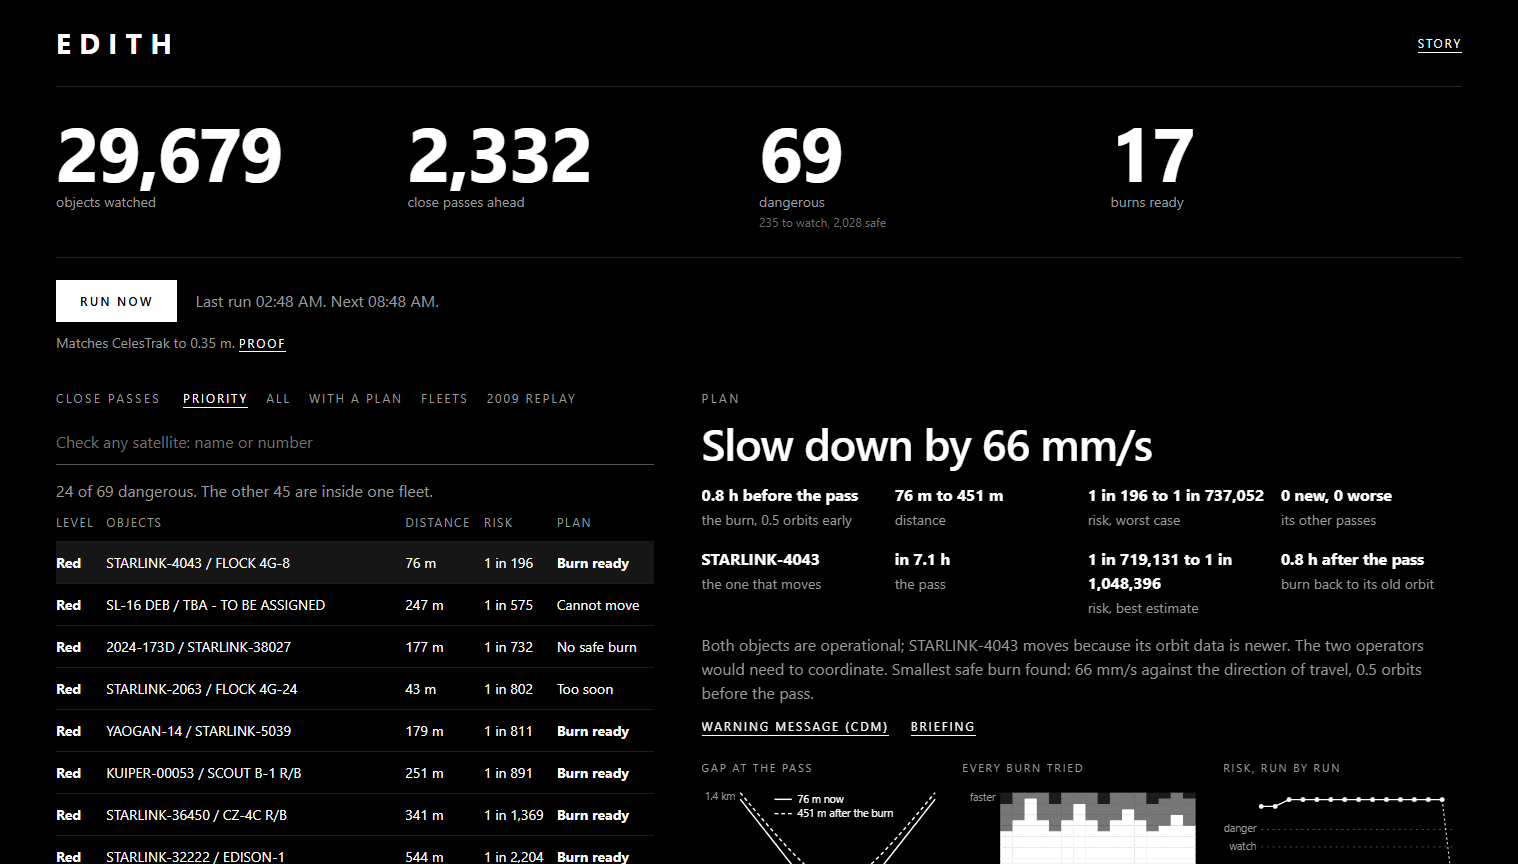
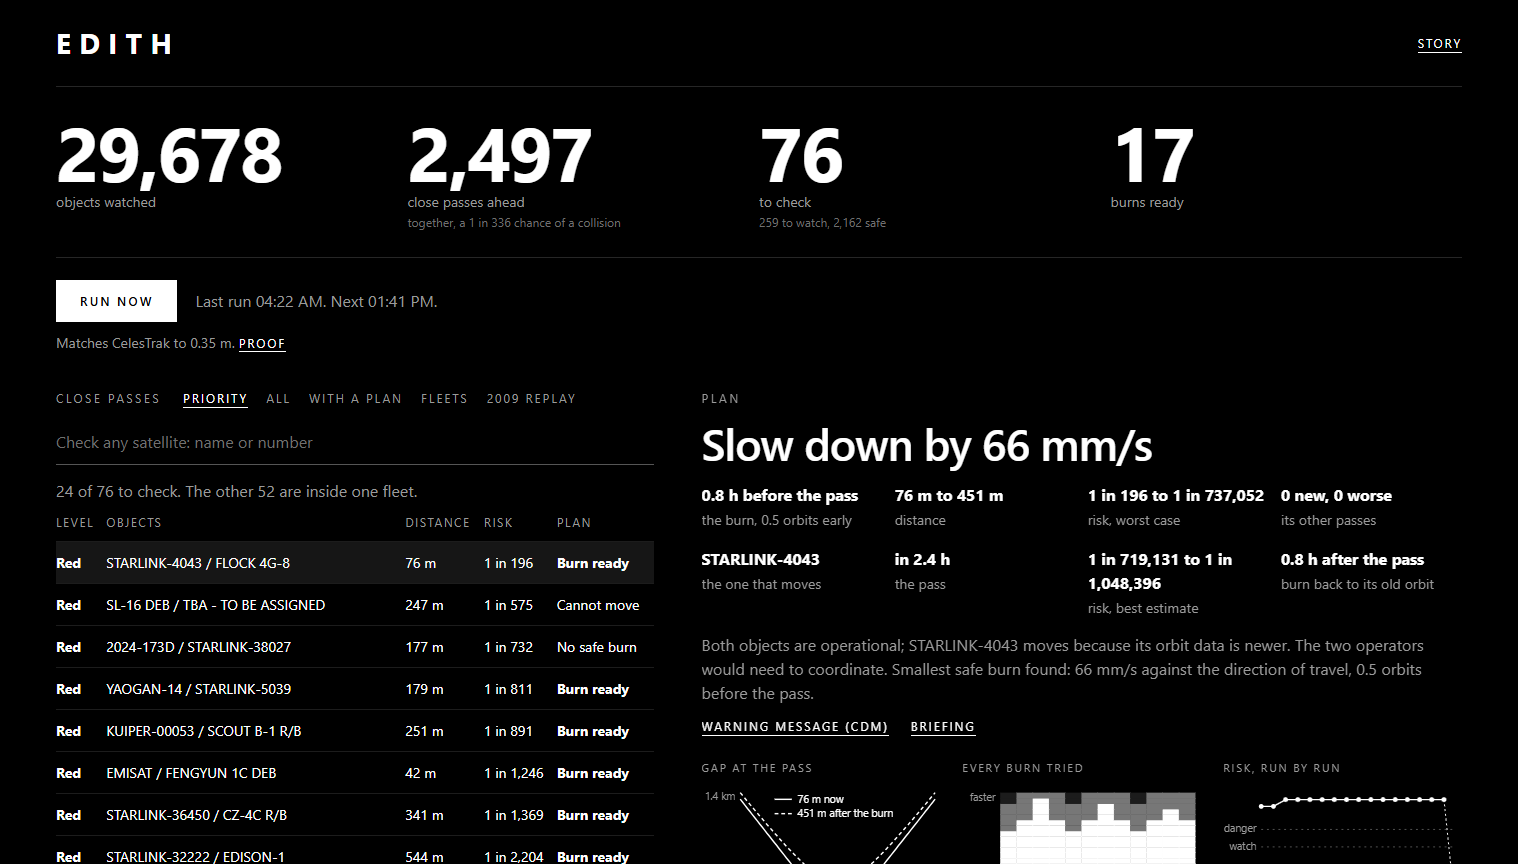
Dashboard: red passes are "to check", and the page says how likely any collision is
Collisions are rare while close passes worth a check are common, and the
word "dangerous" overstated a red pass. The headline now also gives the
chance that any pass of the run is a collision, from the best estimate of
each: about 1 in 340 for a day of the whole sky.

diff --git a/fusion/api/static/dashboard.js b/fusion/api/static/dashboard.js
@@ -5,12 +5,12 @@ let idle = "", failed = false;  // what the line beside the Run button says betw
 let showOnly = false;  // a recorded showcase: nothing can be started, and times are dates because the run does not move
 let checked = null, typed = 0;  // the result of checking one satellite, shown when source is "object"
 let fleet = null;  // the fleet whose passes the list shows, when one was picked under Fleets
-let priority = true, reds = null, shown = null;  // Priority: the dangerous passes that are not inside one fleet
+let priority = true, reds = null, shown = null;  // Priority: the red passes that are not inside one fleet
 const PASS_HEAD = "<tr><th>Level</th><th>Objects</th><th>Distance</th><th>Risk</th><th>Plan</th></tr>";
-// why a dangerous pass has no burn, as the list says it; a pass below the action line is simply watched
+// why a red pass has no burn, as the list says it; a pass below the action line is simply watched
 const SETTLED = ["NEITHER_CAN_MOVE", "TOO_SOON", "NO_SAFE_BURN"];  // a new search would give the same answer, so no button
 const WHY = { NEITHER_CAN_MOVE: "Cannot move", SAME_FLEET: "Own fleet", TOO_SOON: "Too soon", NO_SAFE_BURN: "No safe burn", LIMIT: "Not planned" };
-const FLEET_HEAD = "<tr><th>Fleet</th><th>Satellites</th><th>Passes</th><th>Dangerous</th><th>Own fleet</th><th>Burns</th></tr>";
+const FLEET_HEAD = "<tr><th>Fleet</th><th>Satellites</th><th>Passes</th><th>To check</th><th>Own fleet</th><th>Burns</th></tr>";
 const get = async path => { const r = await fetch(path); if (!r.ok) throw new Error(path); return r.json(); };
 const n = x => Number(x).toLocaleString("en-US");
 const esc = s => String(s == null ? "" : s).replace(/[&<>]/g, c => ({ "&": "&amp;", "<": "&lt;", ">": "&gt;" }[c]));
@@ -26,6 +26,8 @@ async function loadTop() {
   const r = await get("/latest");
   $("t-objects").textContent = n(r.screen.objects_screened);
   $("t-passes").textContent = n(r.events);
+  // real collisions are rare: every pass of the run together, by the best estimate of each
+  $("t-chance").textContent = r.any_collision_chance > 0 ? "together, a " + odds(r.any_collision_chance) + " chance of a collision" : "";
   $("t-red").textContent = n(r.levels.RED);
   reds = r.levels.RED; aboutPriority();
   $("t-burns").textContent = n(r.plans.maneuver);
@@ -51,7 +53,7 @@ async function loadTop() {
 
 function aboutPriority() {
   if (source !== "latest" || !priority || reds == null || shown == null) return;
-  $("about").textContent = shown + " of " + reds + " dangerous. The other " + (reds - shown) + " are inside one fleet.";
+  $("about").textContent = shown + " of " + reds + " to check. The other " + (reds - shown) + " are inside one fleet.";
 }
 
 // one row per fleet: passes to act on, passes inside the fleet (left to its operator), burns planned for it
@@ -210,10 +212,10 @@ function pictures(d, moved, movedWord) {
 
 // a pass found by checking one satellite: it is not in the run, so it has no plan
 function showPass(e) {
-  $("plan").innerHTML = `<p class="big">${e.risk_level === "RED" ? "Dangerous" : e.risk_level === "AMBER" ? "Watch" : "Safe"}</p>` + facts(e) + pictures({ event: e });
+  $("plan").innerHTML = `<p class="big">${e.risk_level === "RED" ? "To check" : e.risk_level === "AMBER" ? "Watch" : "Safe"}</p>` + facts(e) + pictures({ event: e });
 }
 
-// the two documents written for every dangerous pass of a run: the standard warning message and the briefing
+// the two documents written for every red or amber pass of a run: the standard warning message and the briefing
 let written = false;
 function papers(id) {
   if (!written && source !== "replay") return "";
@@ -243,7 +245,7 @@ async function loadPlan() {
   } catch (e) { $("plan").innerHTML = '<p class="why">Cannot load this pass.</p>'; }
 }
 
-// a run plans only its first few dangerous passes; this searches for a burn for any other one
+// a run plans every red pass it can; this shows what a burn would take for a pass the system only watches
 async function askPlan(id) {
   $("ask").disabled = true;
   $("asked").textContent = "Searching for the smallest safe burn. About 20 seconds, up to a minute.";
@@ -297,7 +299,7 @@ function growthPicture(kinds) {
   return sheet(body + ends.map(e => label(right + 6, e.y + 3, e.name, "start", true)).join(""));
 }
 
-// of the 10 most dangerous passes, how many stay in the top 10 when one assumption is changed
+// of the 10 highest-risk passes, how many stay in the top 10 when one assumption is changed
 function keptPicture(rows) {
   const left = 168, full = PW - left - 62, step = 30;
   return sheet(rows.map((r, i) => label(left - 8, 26 + i * step, r.change, "end") +
@@ -315,7 +317,7 @@ async function loadProof() {
   blocks.push(`<h3>Error of public data, by its age</h3>${growthPicture(p.error_growth.kinds)}
     <p>Measured from ${n(p.error_growth.pairs)} pairs of orbit records of ${n(p.error_growth.objects)} objects. After one day: debris ${after("Debris")}, Starlink ${after("Starlink")}.</p>`);
   blocks.push(`<h3>Does the ranking hold?</h3>${keptPicture(p.robustness)}
-    <p>Of the 10 most dangerous passes, how many stay in the top 10 when one assumption changes.</p>`);
+    <p>Of the 10 highest-risk passes, how many stay in the top 10 when one assumption changes.</p>`);
   $("proof").innerHTML = blocks.map(b => "<div>" + b + "</div>").join("");
   ["proof", "proof-title", "report"].forEach(id => { $(id).hidden = false; });
   if (p.report) { $("full-report").hidden = false; $("full-report").href = "/addons/files/" + p.report; }
@@ -377,7 +379,7 @@ async function check(id, name) {
     if (!r.ok) { $("about").textContent = d.detail || "Could not check it."; return; }
     checked = d;
     const risky = d.passes.filter(e => e.risk_level !== "GREEN").length;
-    $("about").textContent = `${d.passes.length} ${d.passes.length === 1 ? "pass" : "passes"} within ${d.threshold_km} km in ${d.hours} hours, ${risky ? risky + " dangerous" : "none dangerous"}. ${n(d.objects_screened)} objects checked in ${d.seconds} s.`;
+    $("about").textContent = `${d.passes.length} ${d.passes.length === 1 ? "pass" : "passes"} within ${d.threshold_km} km in ${d.hours} hours, ${risky ? risky + " to check or watch" : "none to check"}. ${n(d.objects_screened)} objects checked in ${d.seconds} s.`;
     loadEvents();
   } catch (e) { $("about").textContent = "Cannot reach the system."; }
 }

diff --git a/fusion/api/static/index.html b/fusion/api/static/index.html
@@ -11,8 +11,8 @@
 
 <div class="tiles">
   <div><b id="t-objects">-</b><span>objects watched</span></div>
-  <div><b id="t-passes">-</b><span>close passes ahead</span></div>
-  <div><b id="t-red">-</b><span>dangerous</span><span id="t-rest" class="sub"></span></div>
+  <div><b id="t-passes">-</b><span>close passes ahead</span><span id="t-chance" class="sub"></span></div>
+  <div><b id="t-red">-</b><span>to check</span><span id="t-rest" class="sub"></span></div>
   <div><b id="t-burns">-</b><span>burns ready</span></div>
 </div>
 

diff --git a/fusion/api/main.py b/fusion/api/main.py
@@ -311,12 +311,34 @@ def monitor_state() -> dict:
     }
 
 
+_chance_cache: dict[tuple[Path, float], float] = {}
+
+
+def _any_collision_chance(folder: Path) -> Optional[float]:
+    """The chance that at least one of the run's passes is a collision, from the
+    best-estimate probability of each, taken as independent. It puts the count of
+    flagged passes in proportion: real collisions are rare."""
+    path = folder / "events.json"
+    if not path.exists():
+        return None
+    key = (path, path.stat().st_mtime)
+    if key not in _chance_cache:
+        if len(_chance_cache) > 8:
+            _chance_cache.clear()
+        none = 1.0
+        for event in read_json(path, []):
+            none *= 1.0 - min(max(event.get("pc") or 0.0, 0.0), 1.0)
+        _chance_cache[key] = 1.0 - none
+    return _chance_cache[key]
+
+
 @app.get("/latest")
 def latest_summary() -> dict:
+    """The latest finished run's own summary, with `any_collision_chance` added."""
     folder = latest_run()
     if folder is None:
         raise HTTPException(404, "No completed run yet. Start one with POST /run.")
-    return read_json(folder / "run.json", {})
+    return {**read_json(folder / "run.json", {}), "any_collision_chance": _any_collision_chance(folder)}
 
 
 # --- events, plans, alerts ---------------------------------------------------

diff --git a/tests/test_api.py b/tests/test_api.py
@@ -66,8 +66,10 @@ def test_event_detail_has_tracks_and_a_consistent_encounter(client):
 def test_monitor_latest_and_track(client):
     state = client.get("/monitor").json()
     assert state["last_run"] == "20261009T1500Z" and state["run_count"] == 1 and not state["running"]
-    assert client.get("/latest").json()["status"] == "DONE"
+    latest = client.get("/latest").json()
     event = client.get("/events").json()[0]
+    # one pass in this run, so the chance of any collision is that pass's own best estimate
+    assert latest["status"] == "DONE" and latest["any_collision_chance"] == pytest.approx(event["pc"])
     track = client.get(f"/objects/{event['primary_id']}/track?hours=1&step_s=60").json()
     assert len(track["positions_km"]) == 61
     assert client.get("/objects/1/track").status_code == 404

diff --git a/docs/team/PROJECT_EXPLAINED.md b/docs/team/PROJECT_EXPLAINED.md
@@ -321,6 +321,7 @@ You can rerun the speed measurements in front of a judge: `.venv\Scripts\python 
 | How accurate is public data? | After one day: about 60 m for a dead satellite, 220 m for debris, 370 m for a working satellite, 12 km for a Starlink |
 | Why should an operator trust the burn? | It is the smallest of up to 744 options that passes three tests, it is re-checked exactly, its new path is screened against the whole catalogue for 24 hours, and the full grid of options is saved so the choice can be inspected |
 | What if the other satellite also moves? | The plan says so when both are operational and names who we propose should move. We cannot see the other operator's intentions. The standard-format warning message exists so the two can coordinate |
+| If collisions are rare, why are so many passes flagged? | Close passes worth a check are common; collisions are not. In the latest run 76 of 2,497 passes are red, and all 2,497 together make about a 1 in 340 chance of a collision in the day. A typical red pass has a worst case of 1 in 4,900 and a best estimate of 1 in 1.5 million. Red is judged on the worst case because public data does not say how uncertain positions are; an operator with precise tracking would clear most of them. The dashboard therefore says "to check", not "dangerous" |
 | Why are there so many Starlink warnings? | 11,132 of the 30,000 objects are Starlink, flying in tightly packed layers. Seen through public data they look risky, but that data is off by 12 km a day for them, and of 427 same-fleet passes CelesTrak listed a day earlier, one was still there. So we list them and leave them to their operator |
 | Did you catch the 2009 collision? | A day before, from public data: the most dangerous pass of Iridium 33 (first of two), at the right second, rated amber. Public data said a 584 m miss; they hit. We say that plainly: it shows the limit of public data and why we rank by worst case |
 | Why was 2009 amber and not red? | Public data predicted a 584 m miss, which gives a worst case of 1 in 90,000. Red starts at 1 in 10,000. Nobody could have rated it red from that data, and we do not move the line to make the story look better |

diff --git a/docs/API.md b/docs/API.md
@@ -11,7 +11,7 @@ All times are UTC ISO 8601. Distances are km, speeds km/s, delta-v m/s. Results 
 | `POST /run` | Starts a run. Body (all optional): `{"synthetic": false, "quick": false, "mode": null}`. Returns `{"run_id", "already_running"}`. If a run is in progress, returns that run's id with `already_running: true` |
 | `GET /run/{run_id}/status` | `{"run_id", "status", "stage", "percent", "log", "error"}`. `status` is `RUNNING`, `DONE` or `FAILED` |
 | `GET /monitor` | `{"running", "current_run", "last_run", "run_count", "next_run", "interval_hours", "scheduler_on", "read_only", "story_url"}`. `read_only` is true on a show-only server (`FUSION_READ_ONLY=1`), which presents finished runs and answers 403 to `POST /run`, `POST /events/{id}/plan`, `GET /objects/search` and `GET /objects/{id}/passes` |
-| `GET /latest` | The latest run's `run.json`: mode, window, statistics, risk-level counts, duration. 404 before the first run |
+| `GET /latest` | The latest run's `run.json`: mode, window, statistics, risk-level counts, duration; plus `any_collision_chance`, the chance that at least one of the run's passes is a collision, from the best-estimate probability of each. 404 before the first run |
 | `GET /events?limit=50&level=RED&plan=MANEUVER&fleet=STARLINK` | List of events, highest worst-case probability first. `level`, `plan`, `fleet` and `own_fleet` are optional filters; `fleet` keeps the events that involve a working satellite of that fleet, and `own_fleet=false` leaves out passes between two satellites of one fleet. Each event carries `own_fleet` (true or false). Each event carries `plan_decision` (`MANEUVER`, `MONITOR` or `null` for green events), so a table can mark the passes with a burn planned without a second request |
 | `GET /events/{event_id}` | `{"event", "plan", "what_if_plan", "track", "encounter"}` (see below) |
 | `GET /events/{event_id}/plan` | The plan for one event. 404 for green events, which have none |

diff --git a/docs/team/SIMPLE.md b/docs/team/SIMPLE.md
@@ -74,7 +74,7 @@ Have the dashboard open before you start. Do not press "Run now" during the talk
 | Time | Do | Say |
 |---|---|---|
 | 0:00 | Nothing yet | "About 30,000 tracked objects fly in low orbit at 7.5 km every second. That is 440 million pairs. Nobody can watch them by hand. EDITH does, from public data, every six hours, on a laptop." |
-| 0:25 | Point at the four numbers and the line under the button | "Right now: this many objects, this many close passes in the next 24 hours, this many dangerous. We checked our distances against CelesTrak: they match to 0.35 m." |
+| 0:25 | Point at the four numbers and the line under the button | "Right now: this many objects, this many close passes in the next 24 hours. Collisions are rare: all these passes together make about a 1 in 340 chance of one today. These are the passes worth an operator's check. We checked our distances against CelesTrak: they match to 0.35 m." |
 | 0:50 | Click the first "Burn ready" row | "These two would pass this close. EDITH says which one would move, when, and how hard. It is advice: the burn is ready if better data confirms the risk. First picture: the gap with and without the burn. Second: every burn it tried, with the chosen one ringed. '0 new, 0 worse' means the burn was checked against every other object for 24 hours." |
 | 1:35 | Point down the Plan column, then click a row that is not "Burn ready" | "Every dangerous pass has a burn ready or says why not: neither can move, too soon, or no safe burn exists. Passes between two satellites of one fleet are left out of this list, because public data is too rough for those." |
 | 2:00 | Type ISS, or the satellite the judge names | "Any satellite, by name. Its close passes for the next 24 hours, checked in seconds." |
